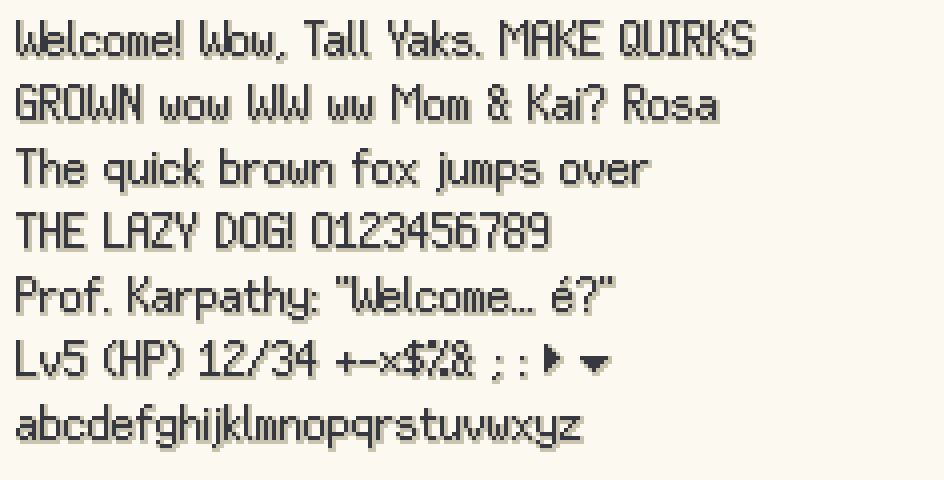
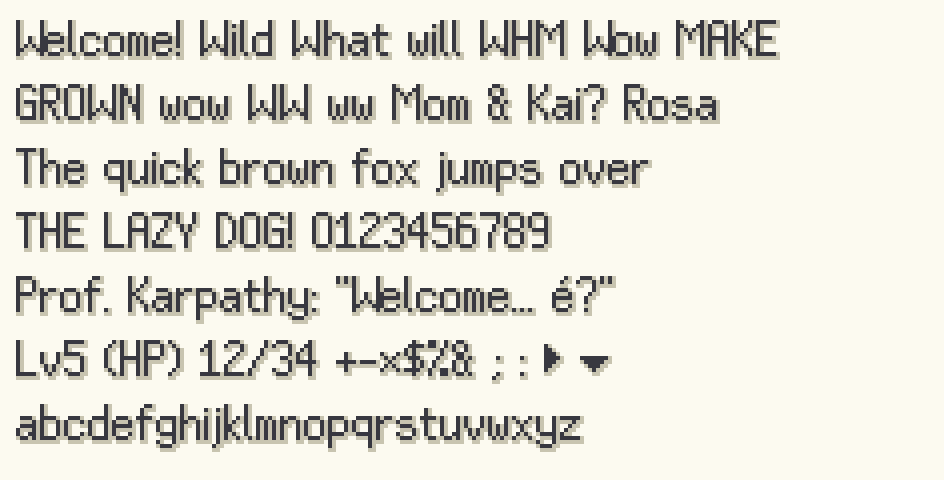
Redraw capital W in dialogue font; WIP rescue framing
Claude-Session: https://claude.ai/code/session_017Bi5eVnoxtC56rZVtPRkfe

diff --git a/tools/font/build_font.py b/tools/font/build_font.py
@@ -49,7 +49,7 @@ DIALOG = {
     'T': '##### ..#.. ..#.. ..#.. ..#.. ..#.. ..#.. ..#.. ..#..',
     'U': '#...# #...# #...# #...# #...# #...# #...# #...# .###.',
     'V': '#...# #...# #...# #...# #...# .#.#. .#.#. .#.#. ..#..',
-    'W': '#.....# #.....# #.....# #..#..# #..#..# #..#..# #.#.#.# #.#.#.# .#...#.',
+    'W': '#.....# #.....# #.....# #.....# #..#..# #..#..# #.#.#.# ##...## #.....#',
     'X': '#...# #...# .#.#. .#.#. ..#.. .#.#. .#.#. #...# #...#',
     'Y': '#...# #...# #...# .#.#. .#.#. ..#.. ..#.. ..#.. ..#..',
     'Z': '##### ....# ...#. ...#. ..#.. .#... .#... #.... #####',
@@ -319,7 +319,7 @@ def preview(name, meta, img, sample_lines, scale=4):
 def main():
     img, meta = build('dialog', DIALOG, ascent=9, descent=2, line_height=16, space_adv=4, kerning=kern_pairs(DIALOG))
     preview('dialog', meta, img, [
-        'Welcome! Wow, Tall Yaks. MAKE QUIRKS',
+        'Welcome! Wild What will WHM Wow MAKE',
         'GROWN wow WW ww Mom & Kai? Rosa',
         'The quick brown fox jumps over',
         'THE LAZY DOG! 0123456789',
